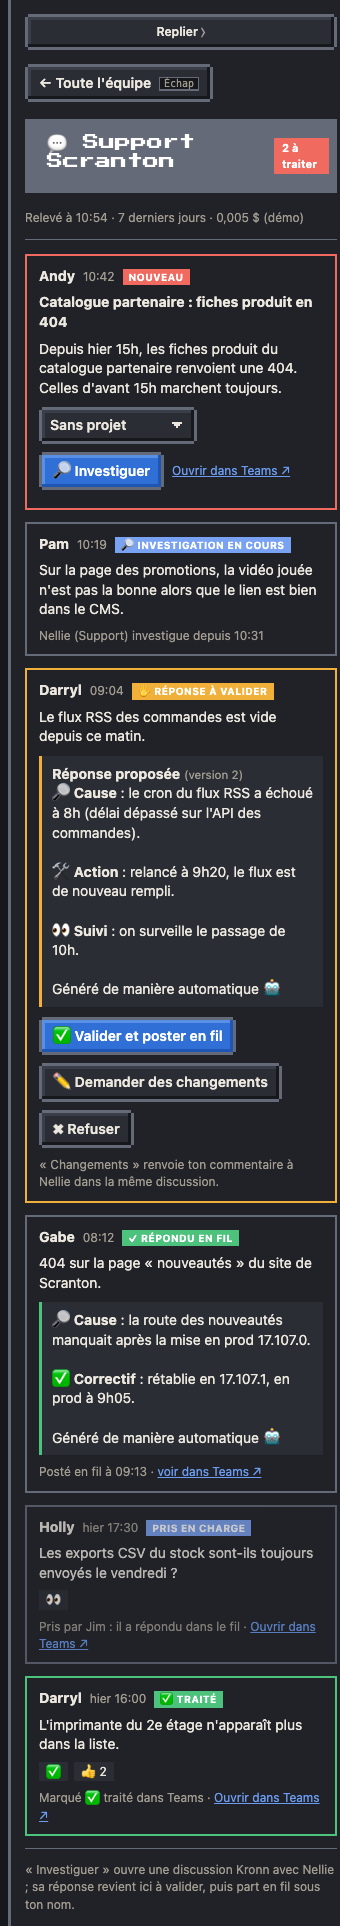
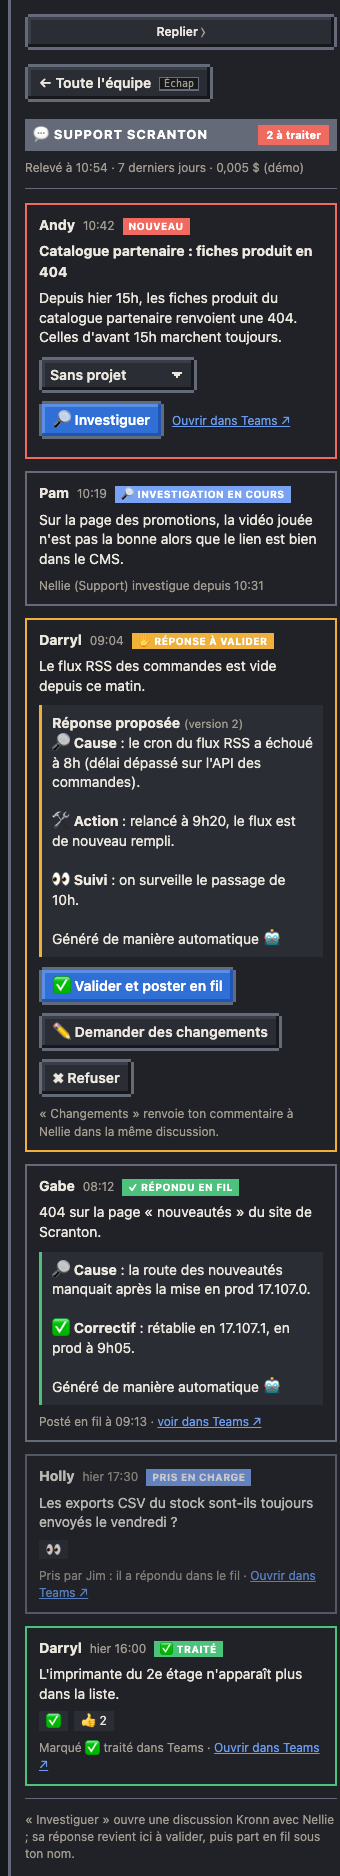
fix(support): le titre de la console est un titre de panneau, plus un en-tête de fenêtre collant (#115)
## 🎯 Quoi et pourquoi
En passant dans le panneau (#114), la console Support a gardé l'en-tête
des fenêtres : une grande police pixel sur deux lignes, et un en-tête
collant (`position: sticky` des fenêtres). Quand on faisait défiler le
panneau, il restait collé en haut, et les boutons de la carte
d'au-dessus (« Sans projet », « Investiguer ») dépassaient par-dessus.

## 🔧 Changements
- `48-support.js` : `spHead()` rend un `<h2>`, le titre ordinaire du
panneau comme « Courrier », avec la pastille « à traiter » à droite.
- `styles.css` : `.sp-head` met le titre et la pastille sur une ligne.
Il n'y a plus de règle de fenêtre, donc plus de sticky.
- Capture `support-panneau` refaite.

## 🧪 Tests
- [x] Tests JS, `test_theme` et `test_support` verts
- [ ] Un test ajouté ou adapté pour ce changement : pas de test ajouté,
le correctif est purement visuel

## 📸 Captures
![La console Support dans le
panneau](https://github.com/barberemi/pixel-bureau/blob/fix/support-titre-panneau/guide/img/support-panneau.png?raw=true)

## ✅ Avant de merger
- [x] Captures (`tools/shots.py`) dans la même PR
- [x] Pas de label « références visuelles » : la console n'est pas dans
`tests/visual/`
- [x] Un commit, signé
- [ ] CI « Tests » verte, PR assignée au mainteneur

## 🔗 Lien
Suite de #114.

🤖 Generated with [Claude Code](https://claude.com/claude-code)

Changed region(s): [[0.0588, 0.0, 1.0, 1.0], [0.9706, 0.3092, 1.0, 0.3401], [0.0588, 0.3092, 0.0882, 0.3401]]

diff --git a/page/src/48-support.js b/page/src/48-support.js
@@ -135,8 +135,7 @@ function spGate(el,t,g,dl){
 function spHead(){
   const n=spTodo().length, S=SUPPORT||{};
   const polled=S.polled_at?'Relevé à '+spWhen(S.polled_at)+(S.days?' · '+S.days+' derniers jours':'')+(S.cost?' · '+String(S.cost).replace('.',',')+' $':''):'Pas encore relevé';
-  return `<div class="bp-head sp-head"><h2>💬 ${esc(spName())}</h2><span class="sp-pill${n?' sp-hot':''}">${n?n+' à traiter':'rien à traiter'}</span>`+
-    '</div>'+
+  return `<h2 class="sp-head">💬 ${esc(spName())}<span class="sp-pill${n?' sp-hot':''}">${n?n+' à traiter':'rien à traiter'}</span></h2>`+ // titre du panneau, comme le courrier
     `<div class="sp-bar"><span class="sp-s">${esc(polled)}${S.demo?' (démo)':''}</span></div>`+ // relever maintenant : « ↻ » du panneau Fraîcheur
     (S.error?`<p class="sp-err">Dernier relevé en échec : ${esc(S.error)}</p>`:'');
 }

diff --git a/page/src/styles.css b/page/src/styles.css
@@ -696,7 +696,7 @@ body.tv.tvscene #tvscene{display:flex;flex-direction:column}
 .la-ar{align-self:center;color:var(--muted)}
 .relaunch .note:empty{display:none}
 /* console Support : dans le panneau de droite (48-support.js, #62) */
-.sp-head{justify-content:flex-start;gap:10px;margin-bottom:6px}.sp-head .sp-pill{margin-right:auto} /* la croix à droite : les thèmes posent la marge des boutons */
+.sp-head{display:flex;align-items:center;gap:8px}.sp-head .sp-pill{margin-left:auto;letter-spacing:0;text-transform:none;white-space:nowrap}
 .sp-pill{font-size:11px;font-weight:700;padding:2px 8px;border-radius:999px;background:var(--chip);color:var(--muted)}
 .sp-pill.sp-hot{background:var(--err);color:#fff}
 .sp-host{display:block;width:100%}
